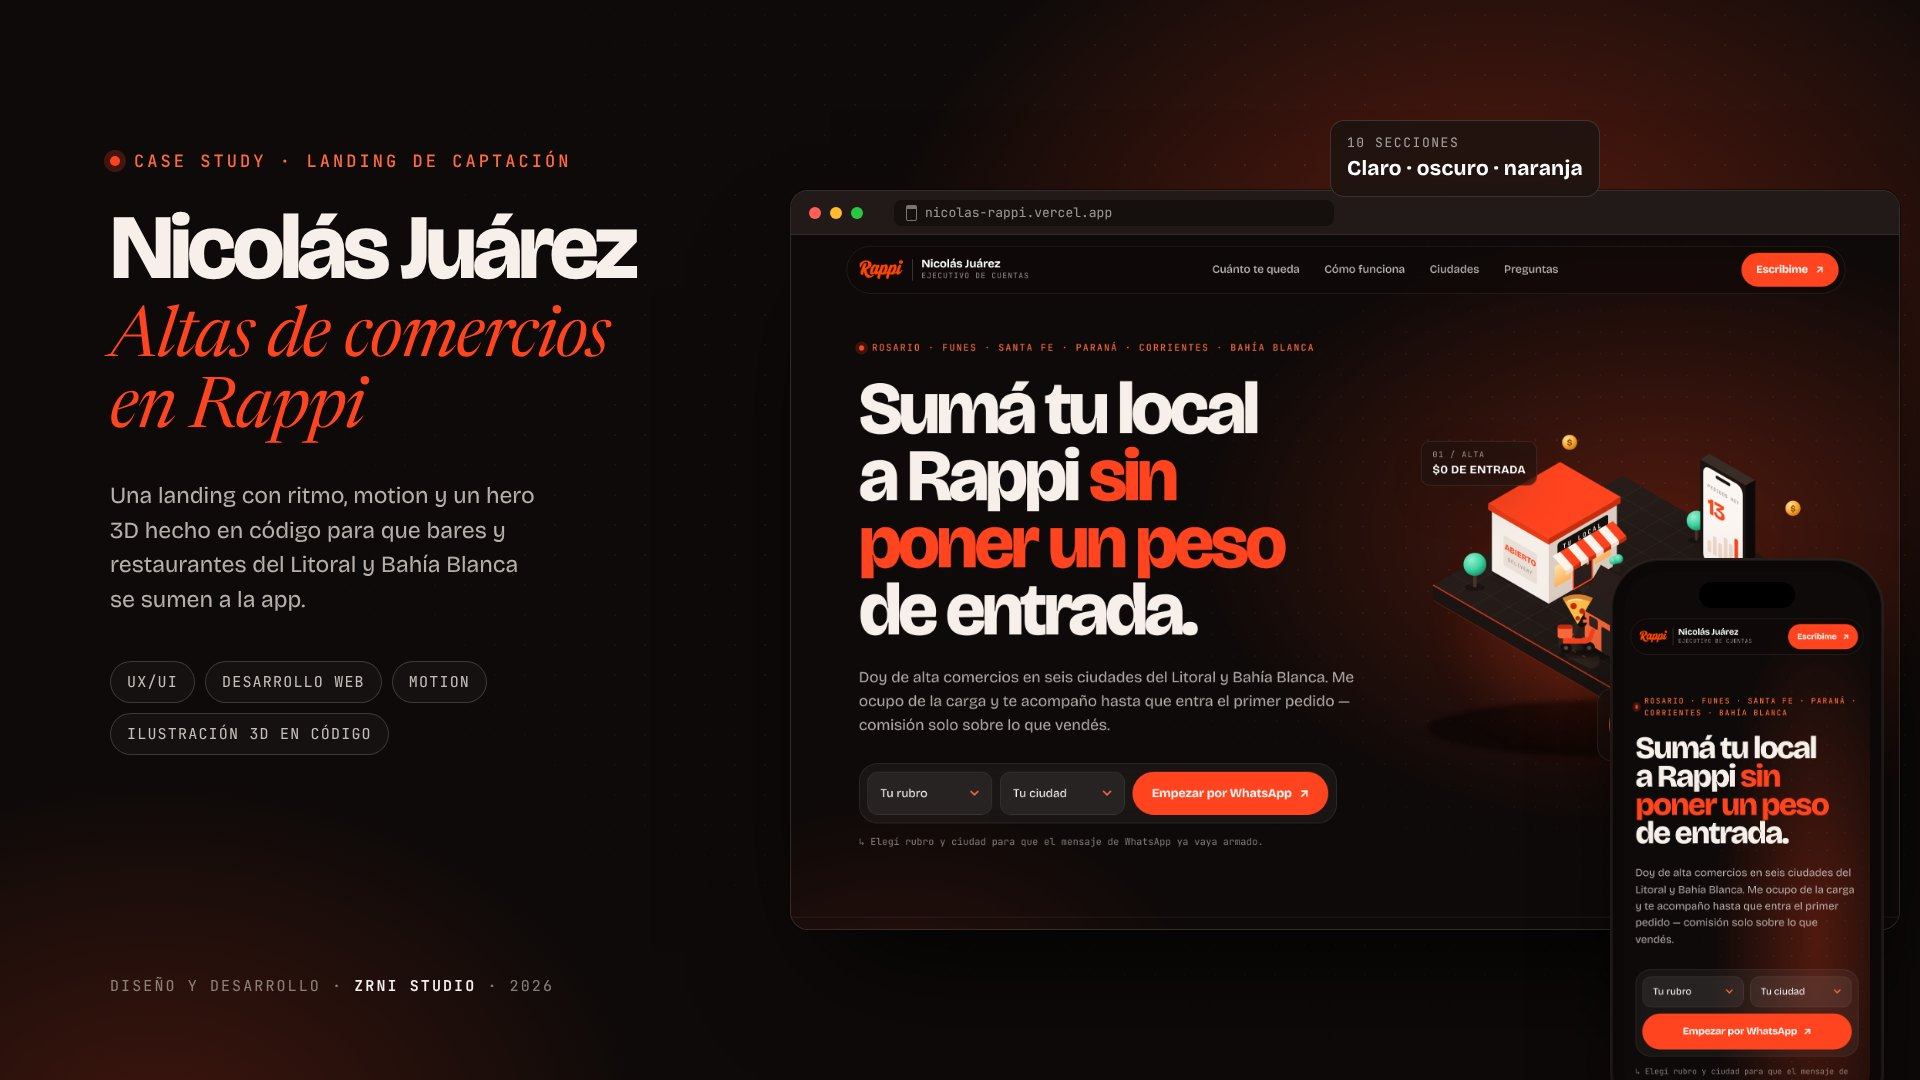
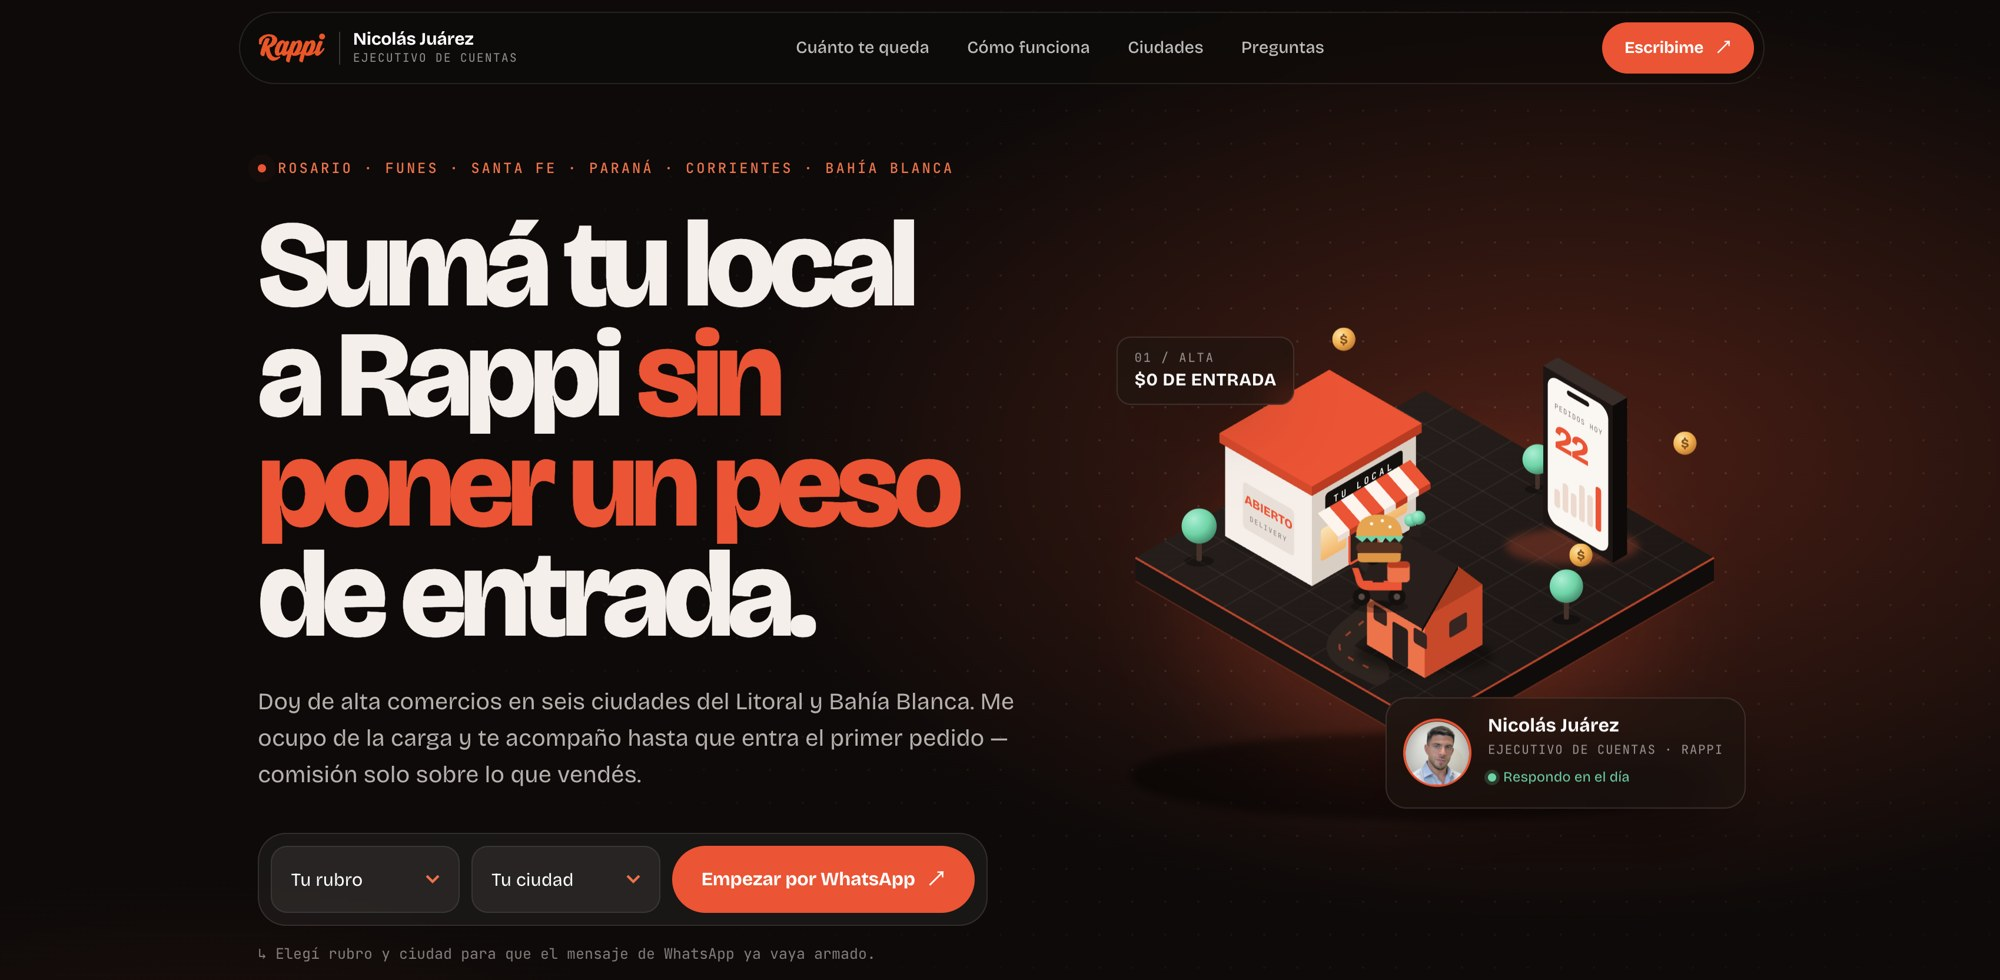
Rappi: nueva portada y proyecto en la home

diff --git a/index.html b/index.html
@@ -875,7 +875,7 @@
     <div class="projects-head">
       <div class="section-tag" data-anim="fade" data-i18n data-en="Professional projects">Proyectos profesionales</div>
       <h2 data-anim="letters" data-i18n data-en="Real work, real impact.">Trabajo real, impacto real.</h2>
-      <div class="meta" data-anim="fade" data-i18n data-en="4 featured cases<br>Fintech · Insurance · SaaS · B2B<br>2021 — present">4 casos destacados<br>Fintech · Seguros · SaaS · B2B<br>2021 — presente</div>
+      <div class="meta" data-anim="fade" data-i18n data-en="5 featured cases<br>Fintech · Insurance · SaaS · B2B · Web<br>2021 — present">5 casos destacados<br>Fintech · Seguros · SaaS · B2B · Web<br>2021 — presente</div>
     </div>
 
     <div class="ps-section" id="psSection">
@@ -909,6 +909,13 @@
             <div class="ps-tags line-anim"><span class="hl" data-i18n data-en="0-to-1 SaaS">0-to-1 SaaS</span><span>B2B</span><span data-i18n data-en="Industrial">Industrial</span></div>
             <span class="ps-date line-anim" data-i18n data-en="Project 04 · 2024">Proyecto 04 · 2024</span>
           </div>
+          <div class="ps-content-item">
+            <span class="ps-tag line-anim" data-i18n data-en="Web design">Diseño web</span>
+            <h3 class="ps-title line-anim">Rappi</h3>
+            <p class="ps-desc line-anim" data-i18n data-en="Lead-generation landing page for a Rappi account executive: live net-income calculator, 4-step process and a 3D hero built in code.">Landing de captación para un ejecutivo de cuentas de Rappi: calculadora de neto en vivo, proceso en 4 pasos y un hero 3D hecho en código.</p>
+            <div class="ps-tags line-anim"><span class="hl">Account Manager</span><span data-i18n data-en="Web development">Desarrollo web</span><span>Motion</span></div>
+            <span class="ps-date line-anim" data-i18n data-en="Project 05 · 2026">Proyecto 05 · 2026</span>
+          </div>
         </div>
       </div>
 
@@ -931,6 +938,11 @@
         <a href="proyectos/oterix.html" class="ps-visual-item" data-cursor="Ver caso" data-en-cursor="View case">
           <img src="assets/proyectos/oterix/cover.jpg" alt="Oterix">
           <div class="ps-mobile-info"><span class="num" data-i18n data-en="Project 04">Proyecto 04</span><h4>Oterix</h4></div>
+        </a>
+
+        <a href="proyectos/rappi.html" class="ps-visual-item" data-cursor="Ver caso" data-en-cursor="View case">
+          <img src="assets/proyectos/rappi/cover.jpg" alt="Rappi">
+          <div class="ps-mobile-info"><span class="num" data-i18n data-en="Project 05">Proyecto 05</span><h4>Rappi</h4></div>
         </a>
 
         <div class="ps-more" data-anim="fade">
